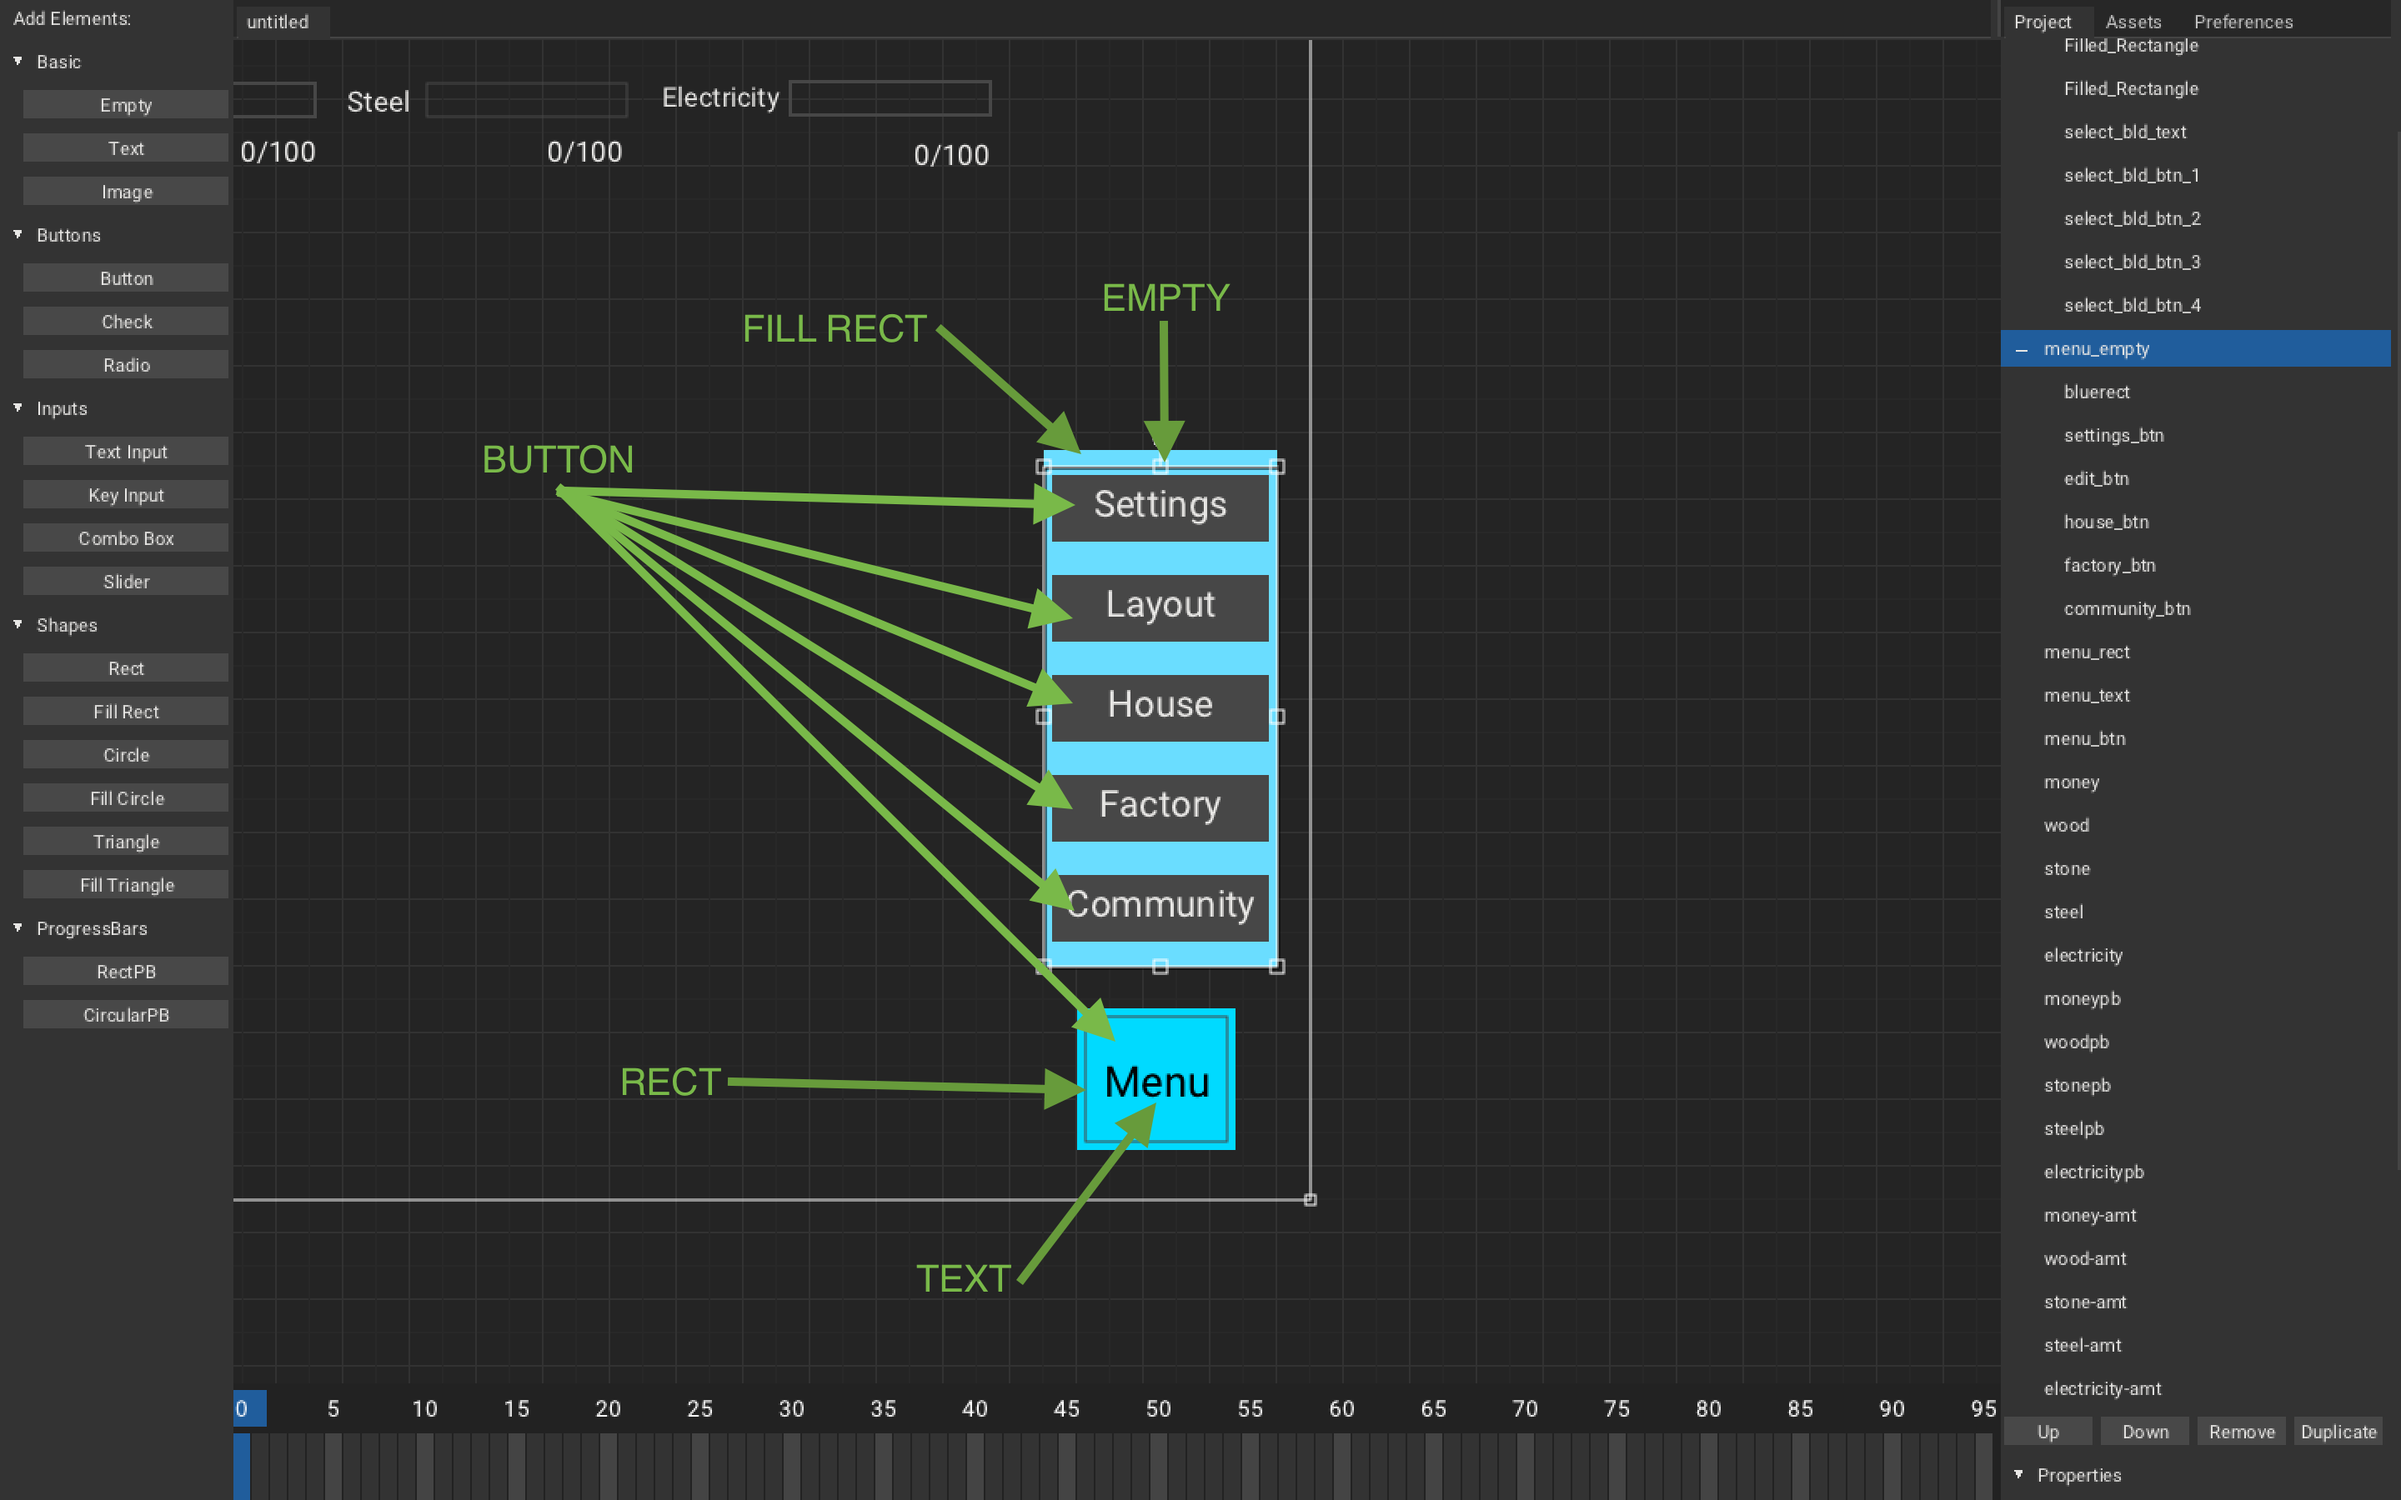
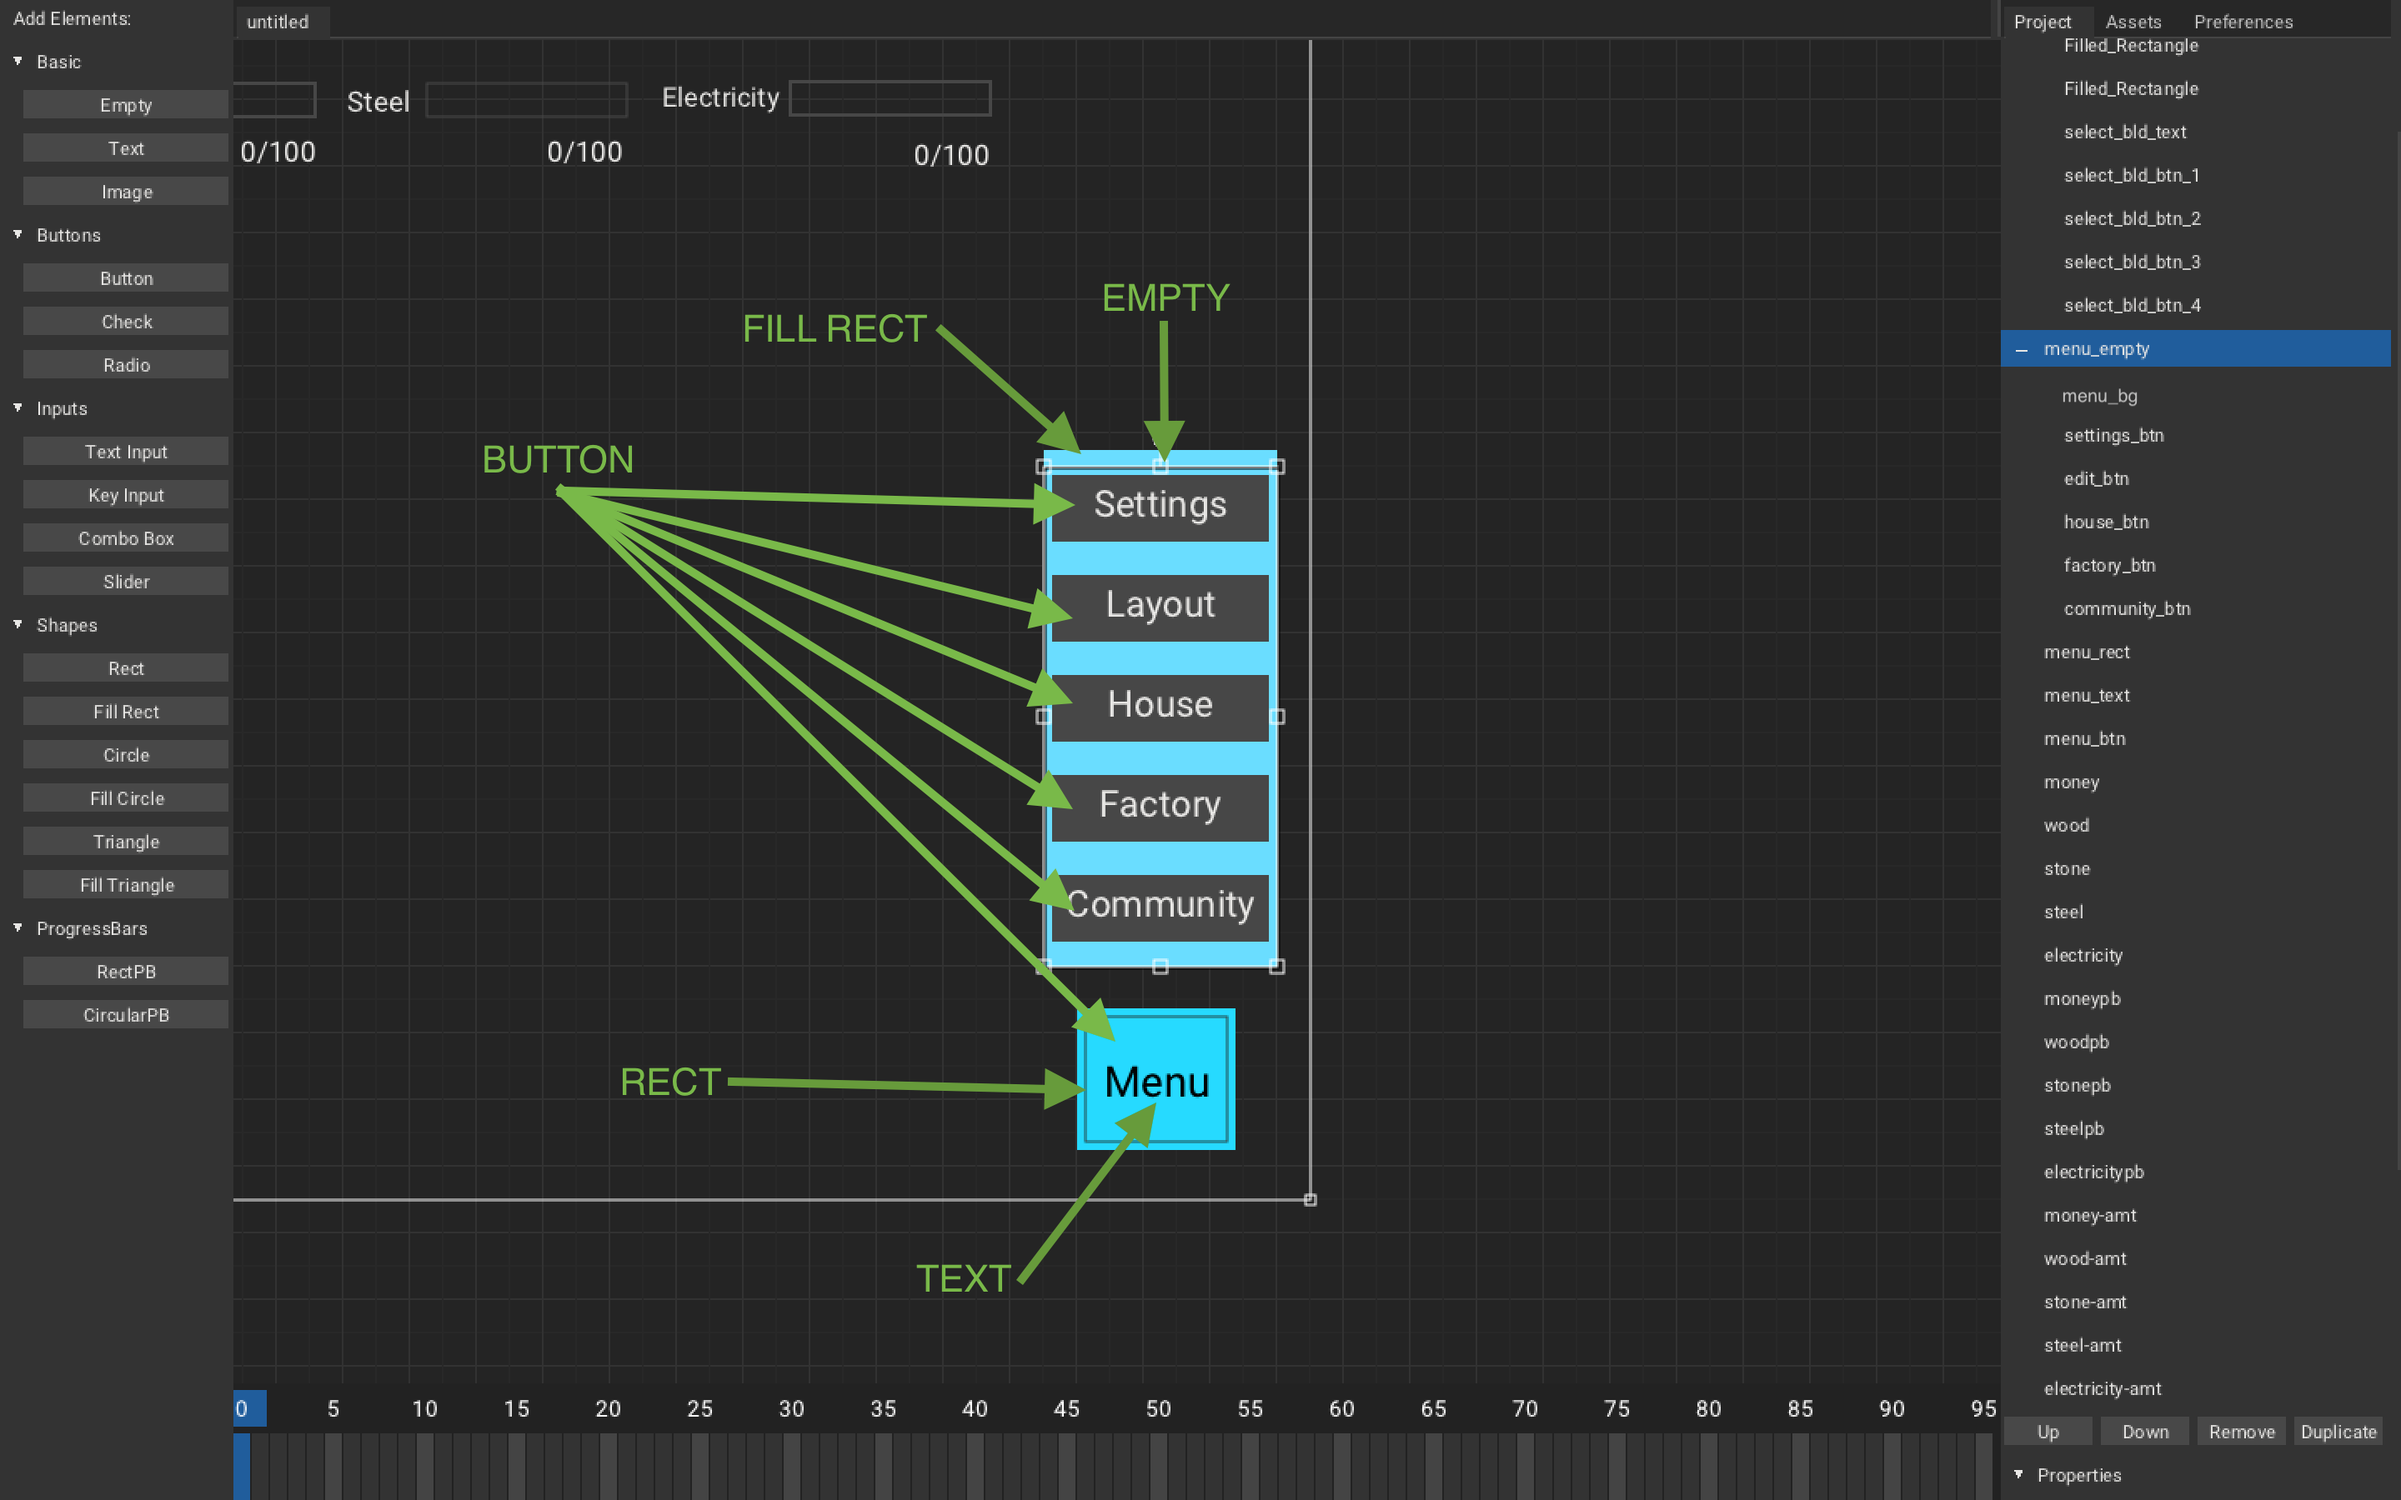
more words

Changed region(s): [[0.4375, 0.6533, 0.5312, 0.7778], [0.8438, 0.2489, 0.9062, 0.28]]

diff --git a/docs/Game_Demo/City_Sim/UI.md b/docs/Game_Demo/City_Sim/UI.md
@@ -1,11 +1,10 @@
 # User Interface (UI)
 
-<!-- TODO: More words -->
-We will create better UI to remove need of pressing key.
+We will create UI in which player will have to rely less on keybinds, that is we will create menu, which will let use spawn any building type of any category easily, create other menus such as settings or layout edit and also interact with buildings with 3D UI.
 
 This will be split in 2 parts:
-- Main Menu UI: This will have placing of building from menu, settings, layout edit.
-- 3D Menu UI: This will have moving, removing, rotating, info of buildings.
+- Main Menu UI: This will have placing of building from menu, settings and layout edit.
+- 3D Menu UI: This will 3D UI that interact with building (such as moving, removing, etc).
 
 ## Main Menu UI
 
@@ -28,10 +27,10 @@ Let's get started!
     - `Rect`:
         - `menu_rect`: Just for style
     - `Fill Rect`:
-        - `bluerect`: act as background for menu buttons
+        - `menu_bg`: act as background for menu buttons
 
 2. Now parent following elements to `menu_empty`:
-    - `bluerect`
+    - `menu_bg`
     - `settings_btn`
     - `edit_btn`
     - `house_btn`
@@ -47,6 +46,8 @@ Let's get started!
 
 
 ![](/../../../docassets/CBS_3_1.png ':size=800')
+
+?> **How-to:** To parent any element, select the child element and the right click-hold the element and left click the parent element.
 
 Now to add Main menu hiding and showing:
 
@@ -125,7 +126,7 @@ On playing, you should get:
 
 ---
 
-Now, we will add building menu. Here you should be able to select whatever building you want to create. 
+Now, we will add building menu. Here you should be able to select whatever building you want to spawn. 
 
 1. Add more element to `MainCanvas`:
     - `Empty`:
@@ -160,7 +161,7 @@ Now, we will add building menu. Here you should be able to select whatever build
 
 We will break building type in 3 categories, that is, `House`, `Factory`, `Community`.
 
-Now, let get to code.
+Now, let's get to code.
 
 <!-- tabs:start -->
 #### **MainCanvasController.hx**
